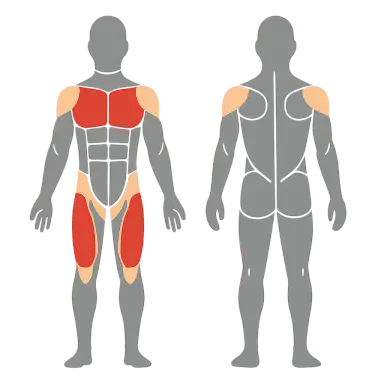
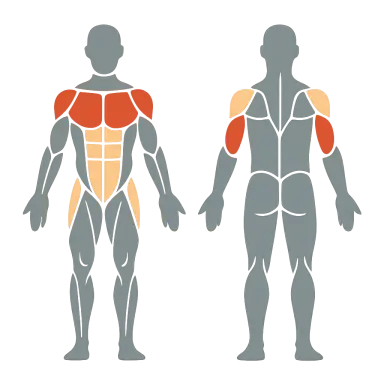
Muscle maps: prompt exclusions (chest on trunk moves, legs on upper-body moves, no text); 4 of 13 fixed, 9 persistent failures fall back to the SVG map (MISSING_MUSCLE_MAPS); 282 generated maps

Changed region(s): [[0.0625, 0.0312, 0.9375, 0.9688]]

diff --git a/apps/mobile/src/illustrations/muscleMapImages.ts b/apps/mobile/src/illustrations/muscleMapImages.ts
@@ -26,14 +26,12 @@ export const MUSCLE_MAP_IMAGES: Readonly<Record<string, ImageSourcePropType>> = 
   "barbell-shrug": require("../../assets/musclemaps/barbell-shrug.webp"),
   "barbell-thruster": require("../../assets/musclemaps/barbell-thruster.webp"),
   "barbell-upright-row": require("../../assets/musclemaps/barbell-upright-row.webp"),
-  "barbell-wrist-curl": require("../../assets/musclemaps/barbell-wrist-curl.webp"),
   "battle-rope-waves": require("../../assets/musclemaps/battle-rope-waves.webp"),
   "bayesian-curl": require("../../assets/musclemaps/bayesian-curl.webp"),
   "bear-crawl-hold": require("../../assets/musclemaps/bear-crawl-hold.webp"),
   "bench-dip": require("../../assets/musclemaps/bench-dip.webp"),
   "bicycle-crunch": require("../../assets/musclemaps/bicycle-crunch.webp"),
   "bike-intervals": require("../../assets/musclemaps/bike-intervals.webp"),
-  "bird-dog": require("../../assets/musclemaps/bird-dog.webp"),
   "bodyweight-squat": require("../../assets/musclemaps/bodyweight-squat.webp"),
   "box-jump": require("../../assets/musclemaps/box-jump.webp"),
   "broad-jump": require("../../assets/musclemaps/broad-jump.webp"),
@@ -80,7 +78,6 @@ export const MUSCLE_MAP_IMAGES: Readonly<Record<string, ImageSourcePropType>> = 
   "conventional-deadlift": require("../../assets/musclemaps/conventional-deadlift.webp"),
   "copenhagen-plank": require("../../assets/musclemaps/copenhagen-plank.webp"),
   "couch-stretch": require("../../assets/musclemaps/couch-stretch.webp"),
-  crunch: require("../../assets/musclemaps/crunch.webp"),
   "curtsy-lunge": require("../../assets/musclemaps/curtsy-lunge.webp"),
   "dead-bug": require("../../assets/musclemaps/dead-bug.webp"),
   "dead-hang": require("../../assets/musclemaps/dead-hang.webp"),
@@ -98,7 +95,6 @@ export const MUSCLE_MAP_IMAGES: Readonly<Record<string, ImageSourcePropType>> = 
   "dumbbell-front-raise": require("../../assets/musclemaps/dumbbell-front-raise.webp"),
   "dumbbell-lateral-raise": require("../../assets/musclemaps/dumbbell-lateral-raise.webp"),
   "dumbbell-lunge": require("../../assets/musclemaps/dumbbell-lunge.webp"),
-  "dumbbell-overhead-triceps-extension": require("../../assets/musclemaps/dumbbell-overhead-triceps-extension.webp"),
   "dumbbell-pullover": require("../../assets/musclemaps/dumbbell-pullover.webp"),
   "dumbbell-rear-delt-fly": require("../../assets/musclemaps/dumbbell-rear-delt-fly.webp"),
   "dumbbell-reverse-lunge": require("../../assets/musclemaps/dumbbell-reverse-lunge.webp"),
@@ -138,7 +134,6 @@ export const MUSCLE_MAP_IMAGES: Readonly<Record<string, ImageSourcePropType>> = 
   "hip-abduction-machine": require("../../assets/musclemaps/hip-abduction-machine.webp"),
   "hip-adduction-machine": require("../../assets/musclemaps/hip-adduction-machine.webp"),
   "hip-thrust": require("../../assets/musclemaps/hip-thrust.webp"),
-  "hollow-hold": require("../../assets/musclemaps/hollow-hold.webp"),
   "horizontal-leg-press": require("../../assets/musclemaps/horizontal-leg-press.webp"),
   "incline-barbell-bench-press": require("../../assets/musclemaps/incline-barbell-bench-press.webp"),
   "incline-dumbbell-curl": require("../../assets/musclemaps/incline-dumbbell-curl.webp"),
@@ -157,7 +152,6 @@ export const MUSCLE_MAP_IMAGES: Readonly<Record<string, ImageSourcePropType>> = 
   "jumping-jacks": require("../../assets/musclemaps/jumping-jacks.webp"),
   "kettlebell-clean": require("../../assets/musclemaps/kettlebell-clean.webp"),
   "kettlebell-deadlift": require("../../assets/musclemaps/kettlebell-deadlift.webp"),
-  "kettlebell-halo": require("../../assets/musclemaps/kettlebell-halo.webp"),
   "kettlebell-snatch": require("../../assets/musclemaps/kettlebell-snatch.webp"),
   "kettlebell-swing": require("../../assets/musclemaps/kettlebell-swing.webp"),
   "kettlebell-windmill": require("../../assets/musclemaps/kettlebell-windmill.webp"),
@@ -197,7 +191,6 @@ export const MUSCLE_MAP_IMAGES: Readonly<Record<string, ImageSourcePropType>> = 
   "pendulum-squat": require("../../assets/musclemaps/pendulum-squat.webp"),
   "pigeon-stretch": require("../../assets/musclemaps/pigeon-stretch.webp"),
   "pistol-squat": require("../../assets/musclemaps/pistol-squat.webp"),
-  plank: require("../../assets/musclemaps/plank.webp"),
   "plank-hip-dip": require("../../assets/musclemaps/plank-hip-dip.webp"),
   "plank-shoulder-tap": require("../../assets/musclemaps/plank-shoulder-tap.webp"),
   "plate-front-raise": require("../../assets/musclemaps/plate-front-raise.webp"),
@@ -208,7 +201,6 @@ export const MUSCLE_MAP_IMAGES: Readonly<Record<string, ImageSourcePropType>> = 
   "pull-up": require("../../assets/musclemaps/pull-up.webp"),
   "push-jerk": require("../../assets/musclemaps/push-jerk.webp"),
   "push-press": require("../../assets/musclemaps/push-press.webp"),
-  "push-up": require("../../assets/musclemaps/push-up.webp"),
   "rack-pull": require("../../assets/musclemaps/rack-pull.webp"),
   "reverse-crunch": require("../../assets/musclemaps/reverse-crunch.webp"),
   "reverse-curl": require("../../assets/musclemaps/reverse-curl.webp"),
@@ -259,7 +251,6 @@ export const MUSCLE_MAP_IMAGES: Readonly<Record<string, ImageSourcePropType>> = 
   "split-squat": require("../../assets/musclemaps/split-squat.webp"),
   sprints: require("../../assets/musclemaps/sprints.webp"),
   "stair-climber": require("../../assets/musclemaps/stair-climber.webp"),
-  "standing-cable-crunch": require("../../assets/musclemaps/standing-cable-crunch.webp"),
   "standing-calf-raise": require("../../assets/musclemaps/standing-calf-raise.webp"),
   "standing-hamstring-stretch": require("../../assets/musclemaps/standing-hamstring-stretch.webp"),
   "standing-leg-curl": require("../../assets/musclemaps/standing-leg-curl.webp"),

diff --git a/apps/mobile/src/illustrations/muscleMapPrompt.ts b/apps/mobile/src/illustrations/muscleMapPrompt.ts
@@ -105,6 +105,34 @@ const figure = (tiers: MuscleTiers, view: BodyView, label: string): string =>
     `Neutral grey, NOT coloured: ${[...names(tiers.grey, view), "hands, feet, knees, shins and head"].join("; ")}.`,
   ].join(" ")
 
+const TRUNK_MUSCLES: ReadonlyArray<MuscleGroup> = ["core", "lowerBack", "upperBack", "lats"]
+const LEG_MUSCLES: ReadonlyArray<MuscleGroup> = [
+  "quads",
+  "hamstrings",
+  "glutes",
+  "adductors",
+  "calves",
+]
+
+/**
+ * Extra "stays grey" sentences for the two regions the image model paints by habit (IMG-5d):
+ * the chest when a core or back muscle is primary and the chest is unlisted, and the legs when
+ * an upper-body move lists no leg muscle.
+ */
+export const neutralRules = (tiers: MuscleTiers): ReadonlyArray<string> => {
+  const listed = [...tiers.primary, ...tiers.secondary]
+  return [
+    ...(tiers.primary.some((m) => TRUNK_MUSCLES.includes(m)) && !listed.includes("chest")
+      ? ["The chest and pectorals stay neutral grey: do not colour any part of the chest."]
+      : []),
+    ...(listed.some((m) => LEG_MUSCLES.includes(m))
+      ? []
+      : [
+          "Thighs, knees, lower legs, glutes and feet stay neutral grey: do not colour any part of the legs.",
+        ]),
+  ]
+}
+
 /** The fixed layout and style, then each figure's three tiers and the "only these" rule. */
 export const muscleMapPrompt = (input: MuscleMapInput): string => {
   const tiers = muscleTiers(input)
@@ -116,8 +144,10 @@ export const muscleMapPrompt = (input: MuscleMapInput): string => {
     figure(tiers, "front", "LEFT figure (front view)"),
     figure(tiers, "back", "RIGHT figure (back view)"),
     "Only these muscles are coloured. Every other muscle stays the neutral grey; do not colour neighbouring muscles. Keep each colour strictly inside its own muscle's shape.",
+    ...neutralRules(tiers),
     "Background: fully transparent, no backdrop, no floor, no shadow, no frame.",
     "Strictly no text, labels, letters, numbers, arrows, logos or watermarks.",
+    "Final check: the image has no text, no title, no labels and no captions anywhere, only the two figures.",
   ].join("\n")
 }
 
@@ -219,6 +249,23 @@ export const selectMaps = <A extends MuscleMapInput>(
     ? Result.fail(`unknown catalog id ${unknown.join(", ")}`)
     : Result.succeed(found.flatMap(Option.toArray))
 }
+
+/**
+ * Catalog ids with no generated map: after two regenerations (IMG-5d, IMG-5e) the model still
+ * painted the chest or the legs against the catalog muscles, so `MuscleMapImage` shows the SVG
+ * map for them. Do not regenerate into these without checking the result on a sheet.
+ */
+export const MISSING_MUSCLE_MAPS: ReadonlyArray<string> = [
+  "barbell-wrist-curl",
+  "bird-dog",
+  "crunch",
+  "dumbbell-overhead-triceps-extension",
+  "hollow-hold",
+  "kettlebell-halo",
+  "plank",
+  "push-up",
+  "standing-cable-crunch",
+]
 
 /** Where the shrunk per-exercise maps live (committed assets). */
 export const MUSCLE_MAP_DIR = "assets/musclemaps"

diff --git a/apps/mobile/src/illustrations/muscleMapPrompt.test.ts b/apps/mobile/src/illustrations/muscleMapPrompt.test.ts
@@ -5,6 +5,7 @@ import { Array as Arr, Order, Result } from "effect"
 import { describe, expect, it } from "vitest"
 import {
   DRAWABLE_MUSCLES,
+  MISSING_MUSCLE_MAPS,
   MUSCLE_ANATOMY,
   MUSCLE_MAP_DIR,
   MUSCLE_MAP_FILE,
@@ -61,6 +62,40 @@ describe("muscleMapPrompt", () => {
     expect(prompt).toContain("#8A919B")
     expect(prompt).toContain("fully transparent")
     expect(prompt).toContain("no text")
+  })
+
+  it("keeps the chest grey when a trunk muscle is primary and the chest is unlisted", () => {
+    const plank = muscleMapPrompt({
+      catalogId: "x",
+      primaryMuscles: ["core"],
+      secondaryMuscles: ["shoulders"],
+    })
+    expect(plank).toContain("The chest and pectorals stay neutral grey")
+    const pushUp = muscleMapPrompt({
+      catalogId: "x",
+      primaryMuscles: ["core"],
+      secondaryMuscles: ["chest"],
+    })
+    expect(pushUp).not.toContain("The chest and pectorals stay neutral grey")
+  })
+
+  it("keeps the legs grey when no leg muscle is listed", () => {
+    const upper = muscleMapPrompt({
+      catalogId: "x",
+      primaryMuscles: ["triceps"],
+      secondaryMuscles: ["shoulders"],
+    })
+    expect(upper).toContain("Thighs, knees, lower legs, glutes and feet stay neutral grey")
+    const squat = muscleMapPrompt({
+      catalogId: "x",
+      primaryMuscles: ["quads"],
+      secondaryMuscles: [],
+    })
+    expect(squat).not.toContain("Thighs, knees, lower legs, glutes and feet stay neutral grey")
+  })
+
+  it("ends by repeating the no title, no labels rule", () => {
+    expect(prompt.split("\n").at(-1)).toContain("no text, no title, no labels")
   })
 
   it("names an empty tier explicitly instead of listing nothing", () => {
@@ -170,9 +205,14 @@ describe("generated muscle maps", () => {
     CATALOG.map((entry): string => entry.catalogId),
     Order.String,
   )
+  const expected = catalogIds.filter((id) => !MISSING_MUSCLE_MAPS.includes(id))
 
-  it("every catalog id has a muscle map file and every file is a catalog id", () => {
-    expect(files).toEqual(catalogIds)
+  it("every catalog id except MISSING_MUSCLE_MAPS has a file and every file is a catalog id", () => {
+    expect(files).toEqual(expected)
+  })
+
+  it("MISSING_MUSCLE_MAPS lists catalog ids only", () => {
+    expect(MISSING_MUSCLE_MAPS.filter((id) => !catalogIds.includes(id))).toEqual([])
   })
 
   it("the index has one require per file on disk and no extra keys", () => {

diff --git a/docs/tasks/v3-design.md b/docs/tasks/v3-design.md
@@ -93,3 +93,4 @@ Order: UI-1 → {UI-2, UI-3, UI-4} in parallel → UI-R → UI-X. UI-2/3/4 may b
 - 12:37–12:42 IMG-5c (engineer): UI-R2 fixes (`useGrouped()` exported from `src/ui`, `ExerciseIllustration` fallback tile `surfaceRaised` in a `ListGroup`; ProgramHome day-row chevron dropped, `EnrolCard` passes the Option, `DayItems` `titleVariant="body"`; `placeholderSvg` and the dead `illustration` colour export deleted; CatalogDetail comments/`framed={false}`) and `MuscleMapImage` (webp from `MUSCLE_MAP_IMAGES` or SVG `MuscleMap` front fallback; `muscleMapImageFor(map, id)` pure, tested) in `CatalogHero` (160 px square slot) and the Progress exercise detail (176 px). Built against 9 map files (IMG-5b not finished: only the bench-press family exists, so Back Squat shows the SVG fallback until the index is regenerated; no code change needed then). 390 proof on barbell-bench-press: `<img>` `assets/musclemaps/barbell-bench-press.webp` 160×160 at x214,y131 (Library), 176×176 (Progress). Mobile check green (65 files, 662 tests). Server 8861 stopped.
 - 12:51–12:58 IMG-5d (engineer): visual QA of all 291 muscle maps (10 sharp contact sheets with P/S muscles under each tile + 300 px zooms of candidates); 26 flagged (core → chest painted, push-ups/crunches → quads, curls/wrist curls → calves or shins, `dumbbell-overhead-triceps-extension` had a text title), regenerated once (~$1.04), shrunk and re-indexed (291). Fixed 13 (bicycle-crunch, cable-pull-through, chin-up, dead-bug, diamond-push-up, hip-abduction-machine, incline-dumbbell-curl, inverted-row, landmine-rotation, plank-hip-dip, wide-stance-leg-press, worlds-greatest-stretch, zottman-curl); still wrong 13 (barbell-wrist-curl, bird-dog, clap-push-up, crunch, dumbbell-overhead-triceps-extension, hollow-hold, kettlebell-halo (now with a text title), pallof-press, plank, push-up, standing-cable-crunch, superman-hold, toe-touch-crunch): systematic, needs a prompt fix, not another roll. Scripts `muscle:generate|shrink|index` (mobile) + root `muscle:generate|index`; catalog-vs-files + index test in `muscleMapPrompt.test.ts`. Mobile check green (65 files, 664 tests); musclemaps 4.8 MB.
 - 12:58 UI-X2 (qa): final pass done on the exported build: 44 screenshots + 3 contact sheets as `UI-X2-*.png` in the scratchpad; errors empty on all pages; map 160x160 (nat 384 sq), hero transparent in light and `surfaceRaised` (35,39,45) wrapper in dark; ui-measure small=[] with ramp keys only; nit: Pull-Up row shows "e1RM 0 kg".
+- 12:59–13:03 IMG-5e (engineer): `muscleMapPrompt.ts` gets `neutralRules` (chest grey when a trunk muscle is primary and chest unlisted; thighs/knees/lower legs/glutes/feet grey when no leg muscle listed) and a final "no text, no title, no labels" line, 3 tests. Regenerated the 13 once (~$0.55): fixed 4 (clap-push-up, pallof-press, superman-hold, toe-touch-crunch); still wrong 9 (chest painted on core moves: crunch, hollow-hold, plank, standing-cable-crunch, kettlebell-halo; legs/calves painted: barbell-wrist-curl, bird-dog, dumbbell-overhead-triceps-extension, push-up) → files deleted, listed in `MISSING_MUSCLE_MAPS` (SVG fallback); kettlebell original also paints the chest, not restored. 282 maps, 4.6 MB; mobile check green (65 files, 668 tests).
